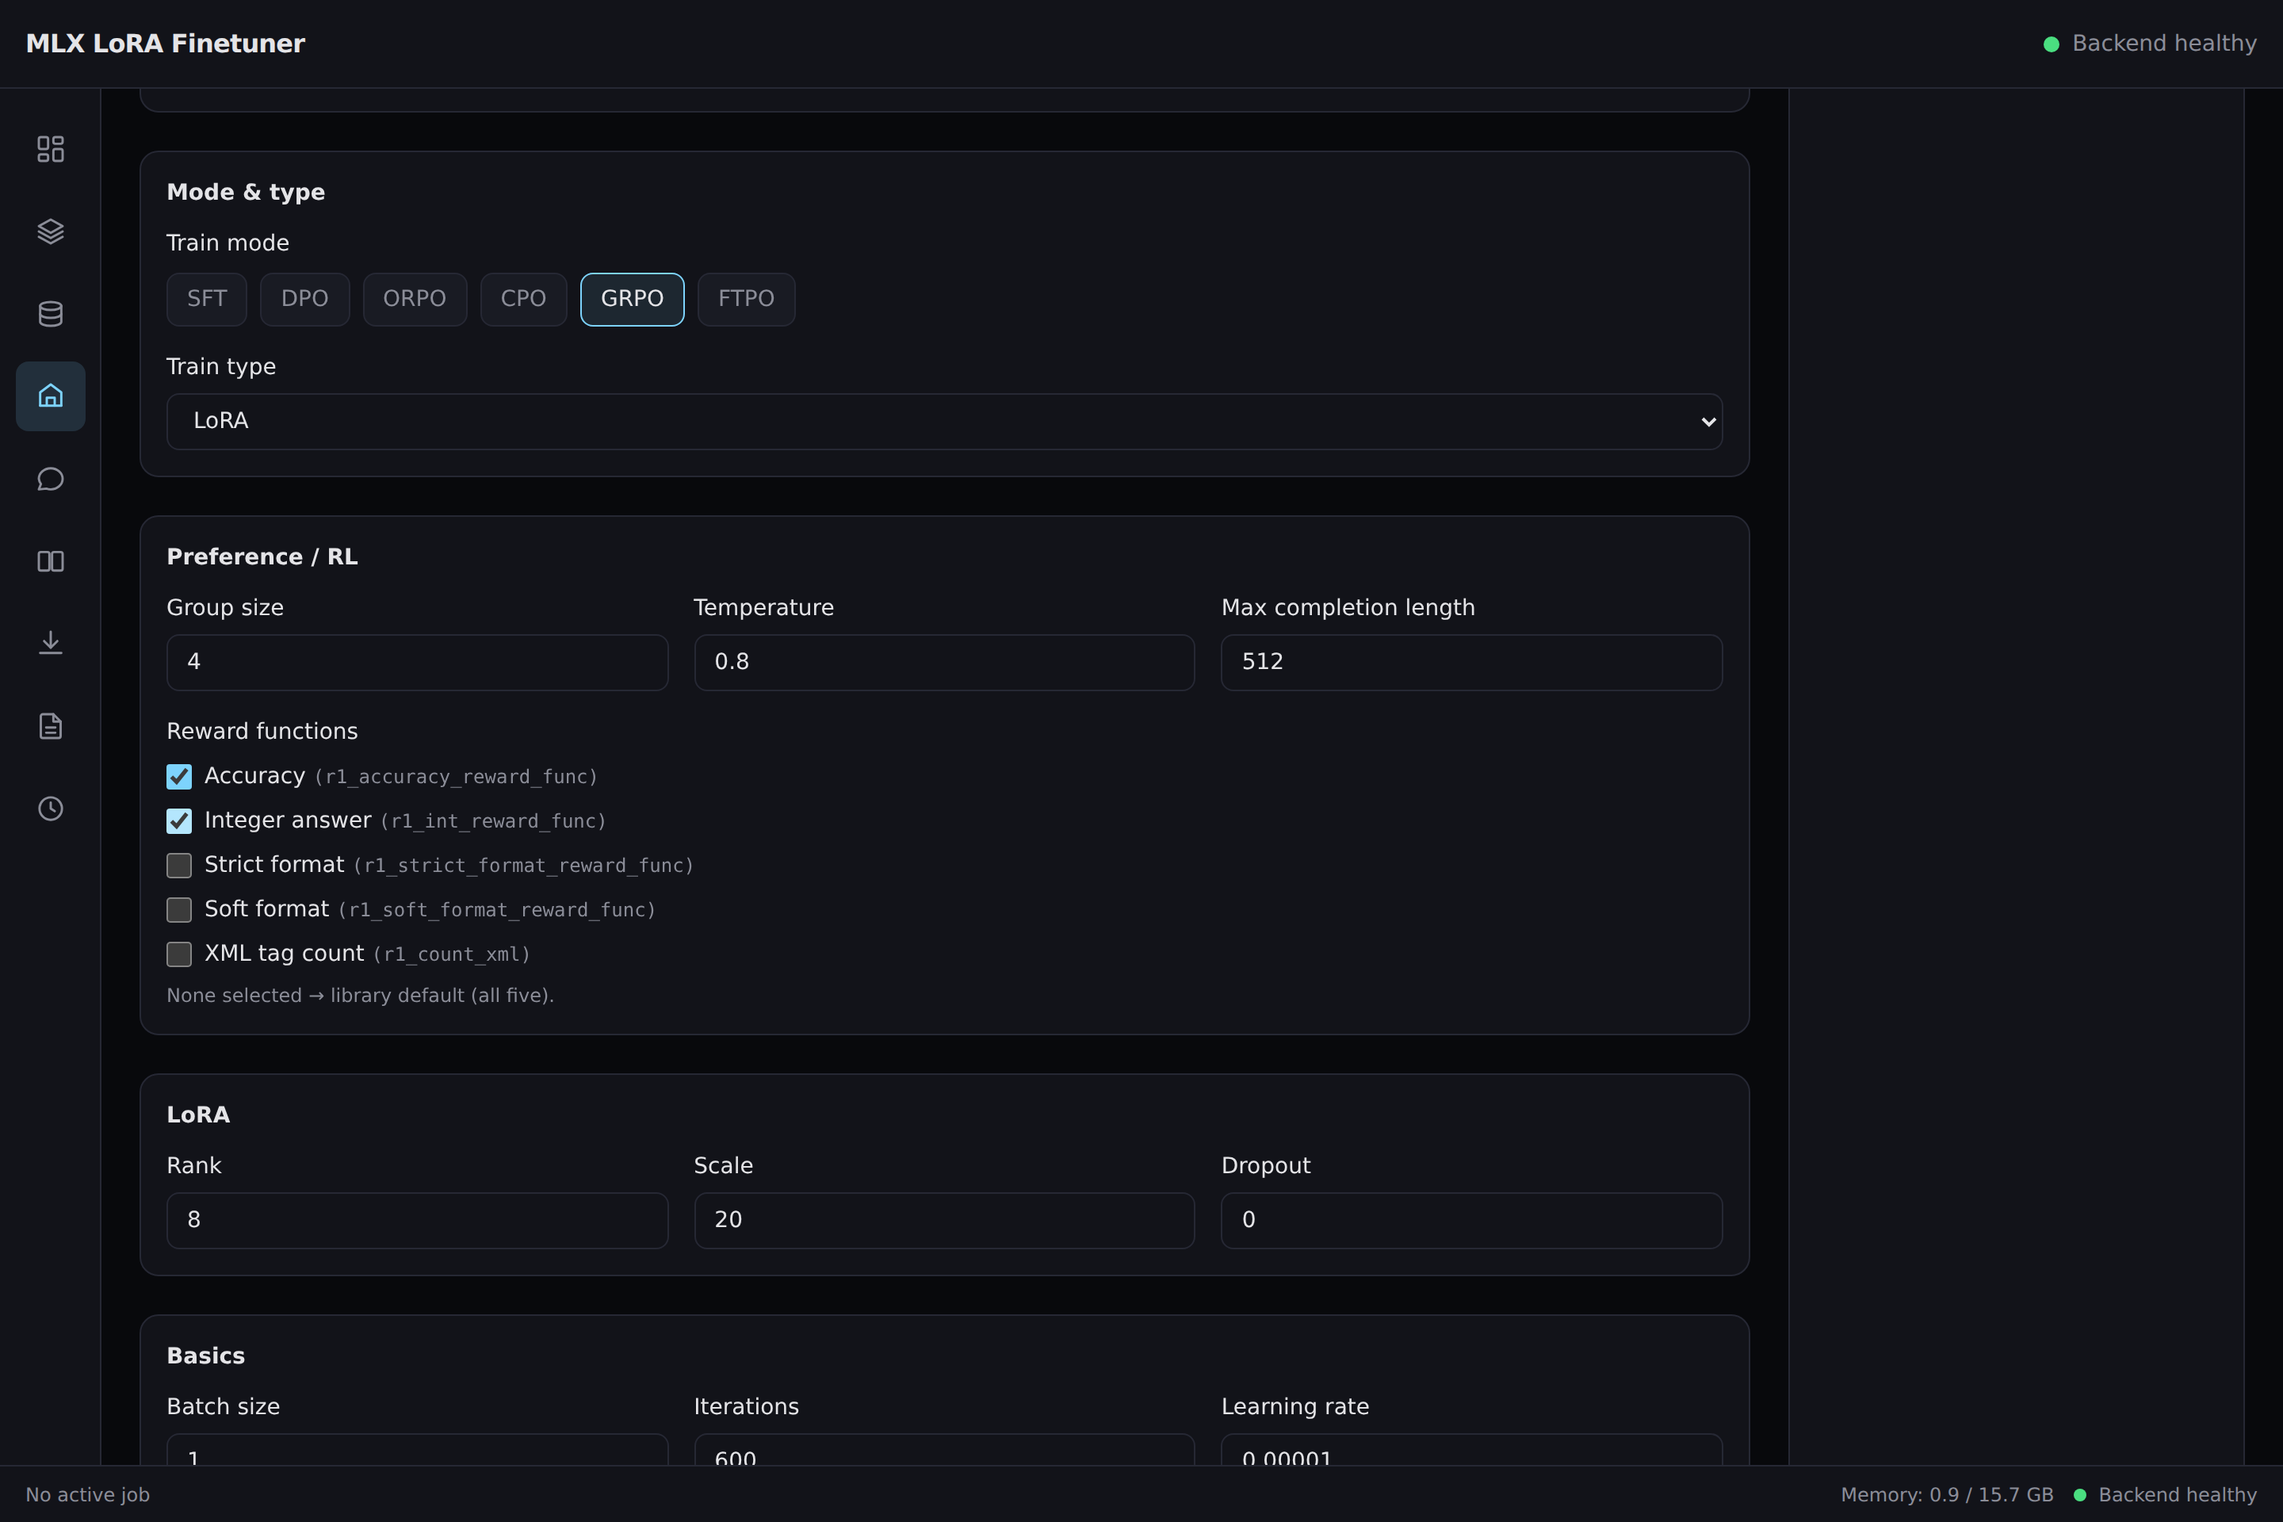
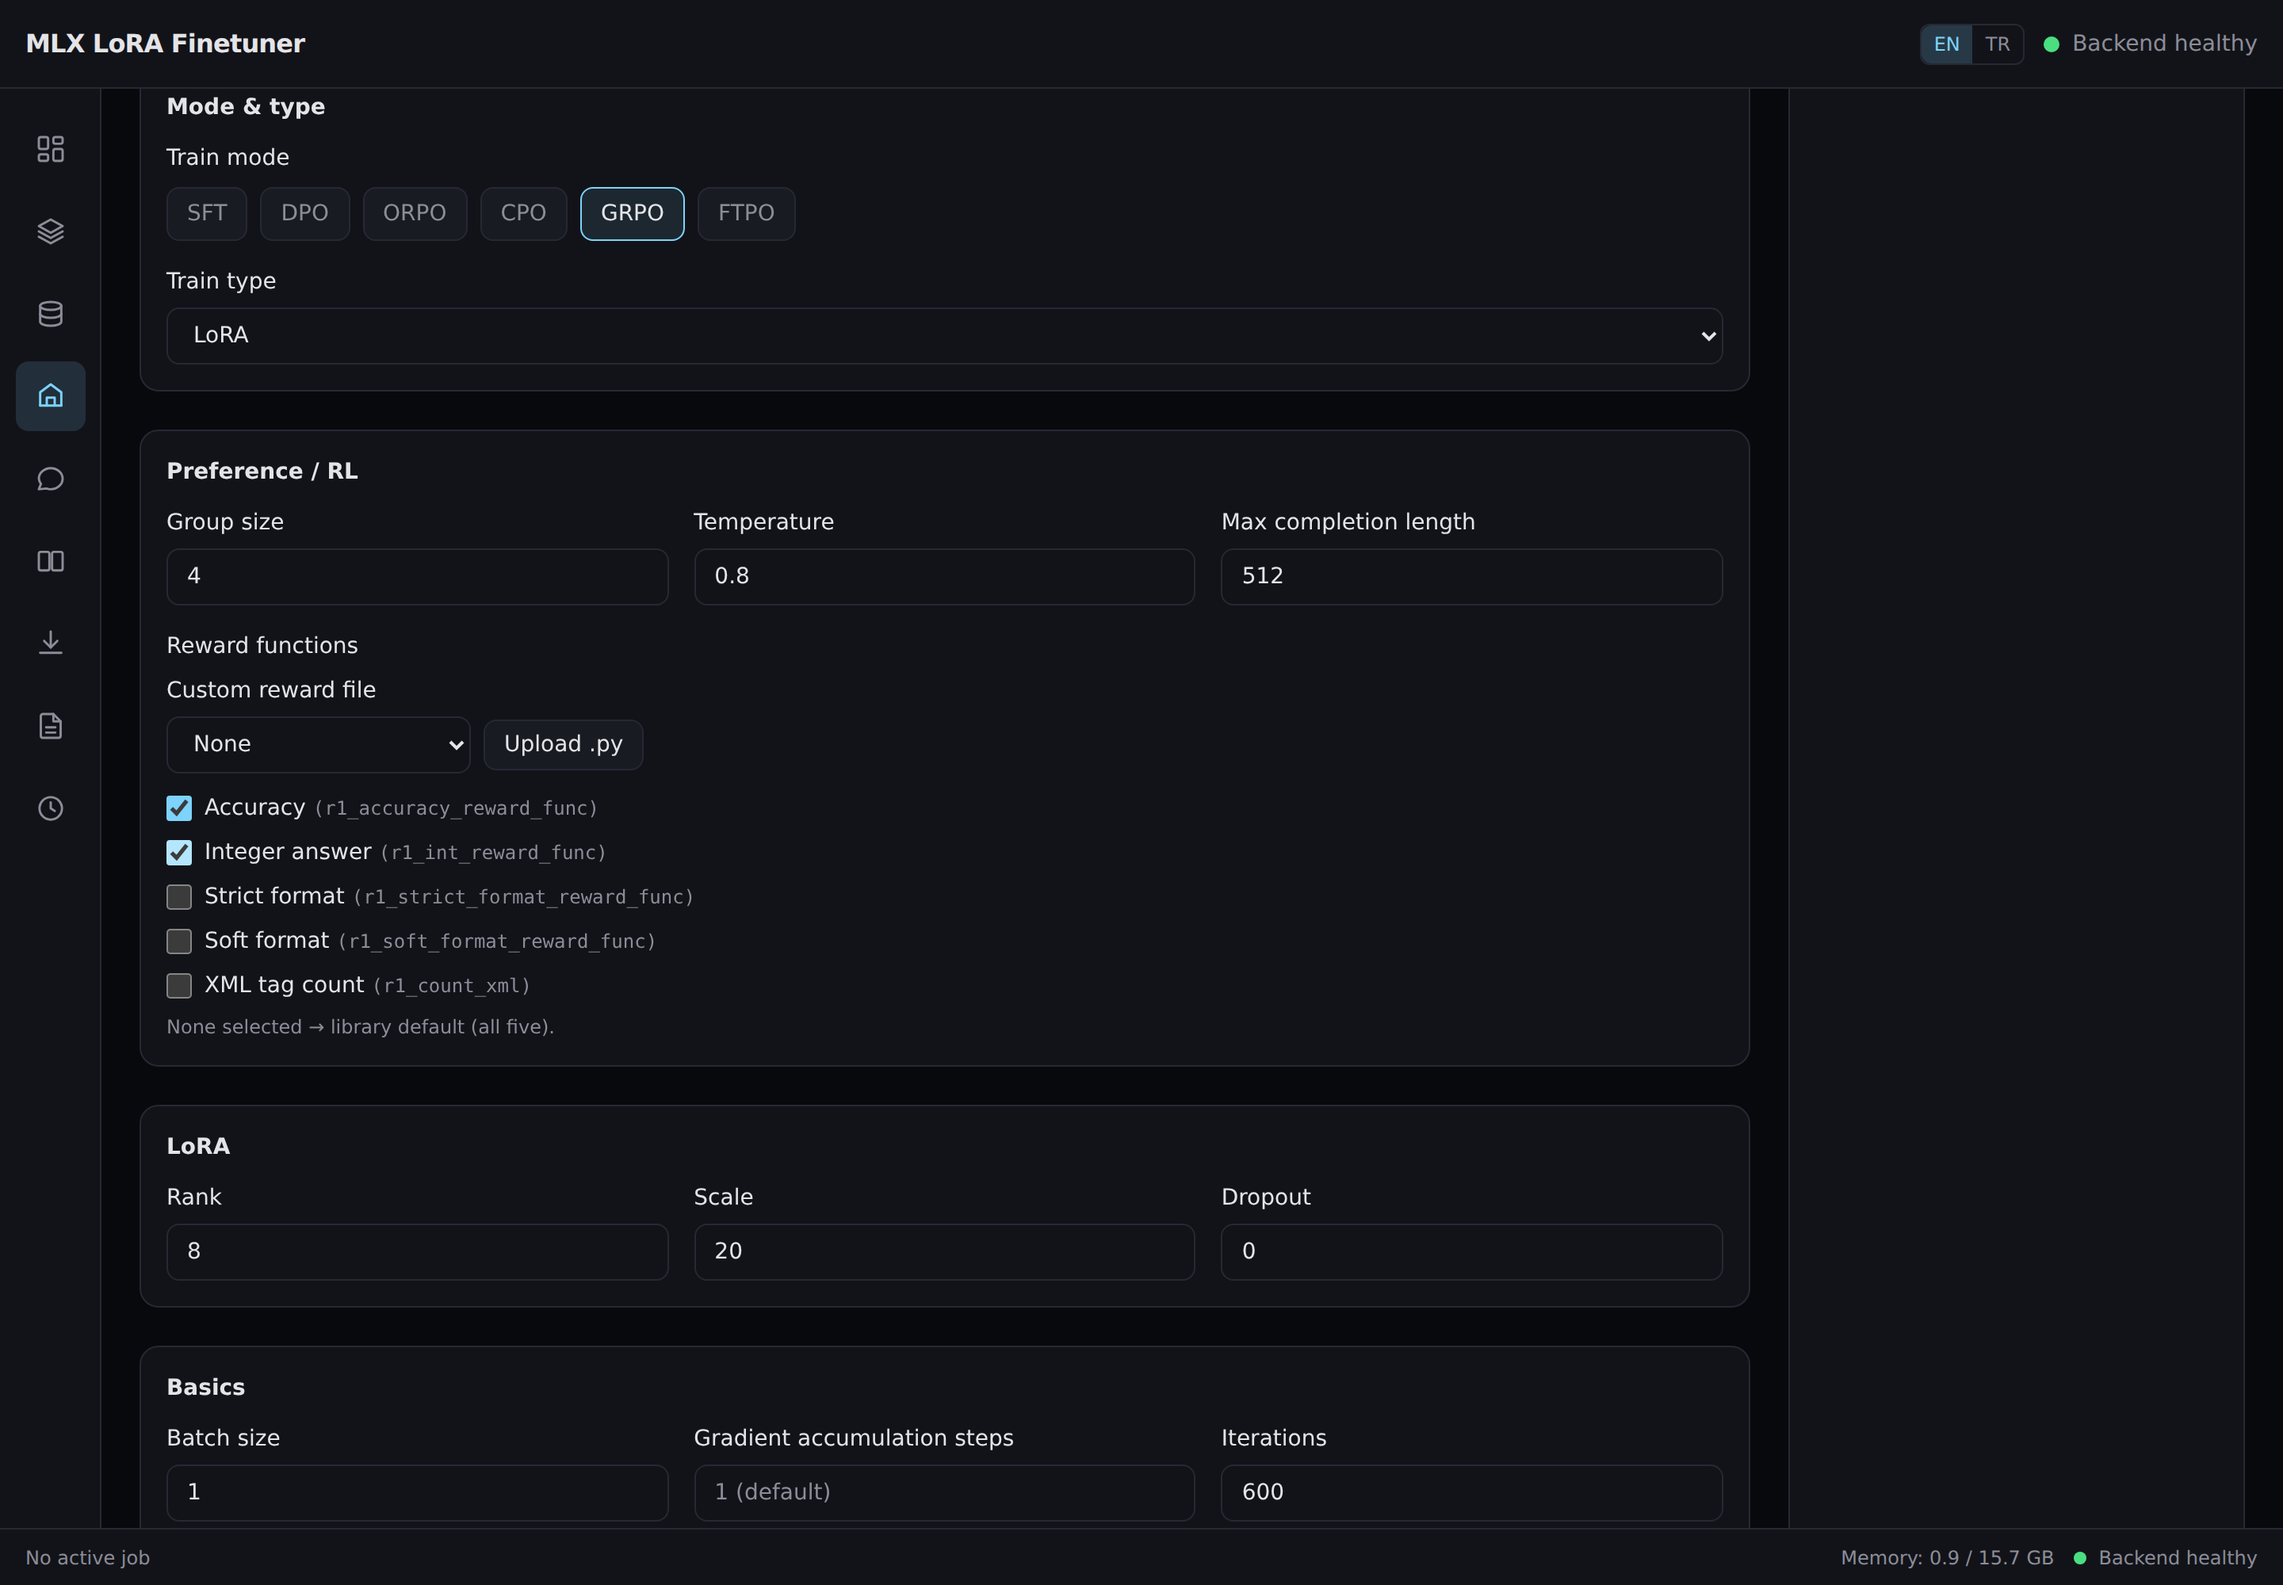
docs(readme): refresh the visuals and feature list for v0.2.0+
Both images predated three shipped features, and the feature list had
drifted into being wrong rather than merely incomplete: it advertised
"6 supported formats" when ftpo made it 7, and never mentioned the
bilingual UI at all.

- demo.gif re-recorded from the current build: now walks dashboard →
  models → datasets → a GRPO config → the new run comparison → and
  ends by flipping the whole UI to Turkish. Re-encoded at 8fps/1000px
  (3.9 MB, down from 6.2 MB at the first pass).
- train-grpo.png re-shot: shows the custom reward file row, the
  gradient accumulation field and the EN/TR switch, none of which
  existed when the old shot was taken.
- history-compare.png added, illustrating the overlay described in the
  Run History bullet.
- Feature list corrected and extended: 7 formats, HF Hub import with
  column mapping, gradient accumulation, SFT loss types, custom reward
  files, checkpoint chat/fuse, YAML config export/load, and a new
  bilingual-UI entry. The GRPO walkthrough gains a custom-reward-file
  step.

Screenshots were captured from a real served build with seeded runs,
not mocked.

Claude-Session: https://claude.ai/code/session_014UEysgYYG512HSnoKf5cgm

diff --git a/README.md b/README.md
@@ -10,7 +10,7 @@ A local web studio for LoRA fine-tuning of LLMs on Apple Silicon, built on top o
 React/TypeScript/Vite frontend, similar in spirit to Unsloth Studio but running
 entirely on-device via MLX — no cloud GPUs, no data leaving your Mac.
 
-![Demo: browsing models and datasets, then configuring a GRPO run](docs/screenshots/demo.gif)
+![Demo: browsing models and datasets, configuring a GRPO run, comparing two runs, and switching the UI to Turkish](docs/screenshots/demo.gif)
 
 To try it yourself: `make run` builds the frontend and serves the whole app
 from a single process on http://127.0.0.1:8000 (see
@@ -20,14 +20,19 @@ from a single process on http://127.0.0.1:8000 (see
 
 - **Models** — search and download models from the Hugging Face Hub (defaults to
   the `mlx-community` org), track downloads live, browse and delete local models.
-- **Datasets** — upload JSONL files with automatic format detection across 6
-  supported formats (`chat`, `completions`, `text`, `dpo`, `orpo`, `grpo`), per-row
-  validation with errors/warnings, train/valid/test splitting, and a paginated
-  preview per split.
+- **Datasets** — upload JSONL files with automatic format detection across 7
+  supported formats (`chat`, `completions`, `text`, `dpo`, `orpo`, `grpo`, `ftpo`),
+  per-row validation with errors/warnings, train/valid/test splitting, and a
+  paginated preview per split. Or import straight from the Hugging Face Hub,
+  with a column map that renames source columns onto the keys the detector
+  expects.
 - **Train** — SFT, DPO, ORPO, CPO, GRPO, and FTPO training modes, LoRA/DoRA/full
-  fine-tuning, QLoRA-style 4/6/8-bit quantized loading, and a live run monitor
-  with loss/learning-rate/memory charts and a log tail streamed over
-  WebSocket.
+  fine-tuning, QLoRA-style 4/6/8-bit quantized loading, gradient accumulation,
+  selectable SFT loss (NLL / chunked NLL / DFT), custom GRPO reward functions
+  uploaded as a `.py` file, and a live run monitor with loss/learning-rate/memory
+  charts, a WebSocket log tail, and saved checkpoints you can chat with or fuse
+  in one click. Any run's full config exports as YAML and loads back into the
+  form.
 - **Chat** — streaming chat against a base model or a trained LoRA adapter, with
   a side-by-side adapter-compare mode to see how fine-tuning changed responses.
 - **Arena** — side-by-side comparison of two model/adapter pairs against the
@@ -47,6 +52,13 @@ from a single process on http://127.0.0.1:8000 (see
   Ollama `Modelfile` ready for `ollama create`.
 - **Dashboard** — system stats (memory/disk), the active run at a glance, recent
   runs, and an onboarding guide for first-time setup.
+- **English & Turkish UI** — switch languages from the top bar at any time; the
+  choice persists, and a Turkish browser starts in Turkish on first visit.
+
+Comparing two runs from the History page — the second run's curves are overlaid
+dashed, and the same picker diffs the two configs:
+
+![Run History comparing two GRPO runs: solid and dashed loss curves on one chart](docs/screenshots/history-compare.png)
 
 ## Requirements
 
@@ -132,6 +144,11 @@ enough to iterate quickly on any Apple Silicon Mac.
   - `r1_count_xml` — partial credit per correct XML tag
   - Leaving all unchecked uses the library default (all five). For this
     example, **Accuracy + Integer answer** is a focused starting point.
+- **Custom reward file** (optional) — if the built-ins don't score what you
+  care about, upload a `.py` file whose functions carry mlx-lm-lora's
+  `@register_reward_function()` decorator. They're discovered by a static
+  scan (the API never executes the file) and appear as extra checkboxes
+  beside the built-ins; the trainer loads the file at run start.
 
 Or skip the clicking: save the YAML below as `grpo-math.yaml` and load it with
 the form's **Load YAML** button (any exported run config re-loads the same way):
